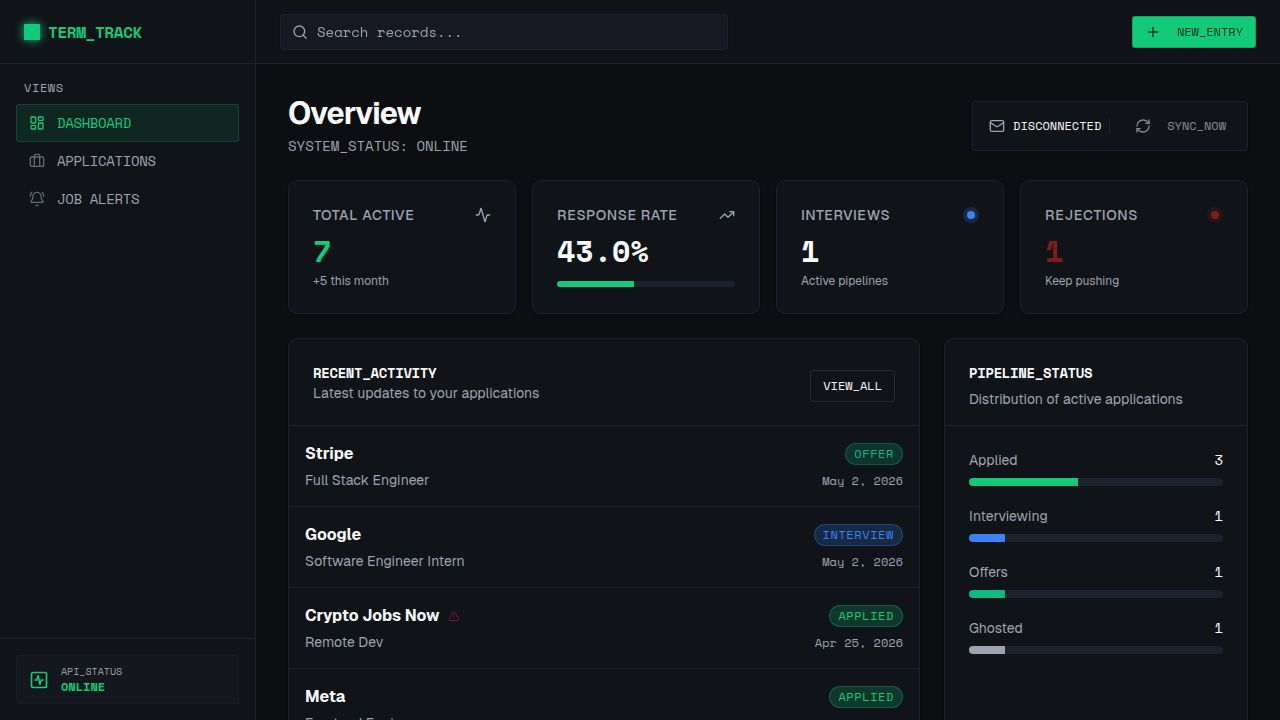
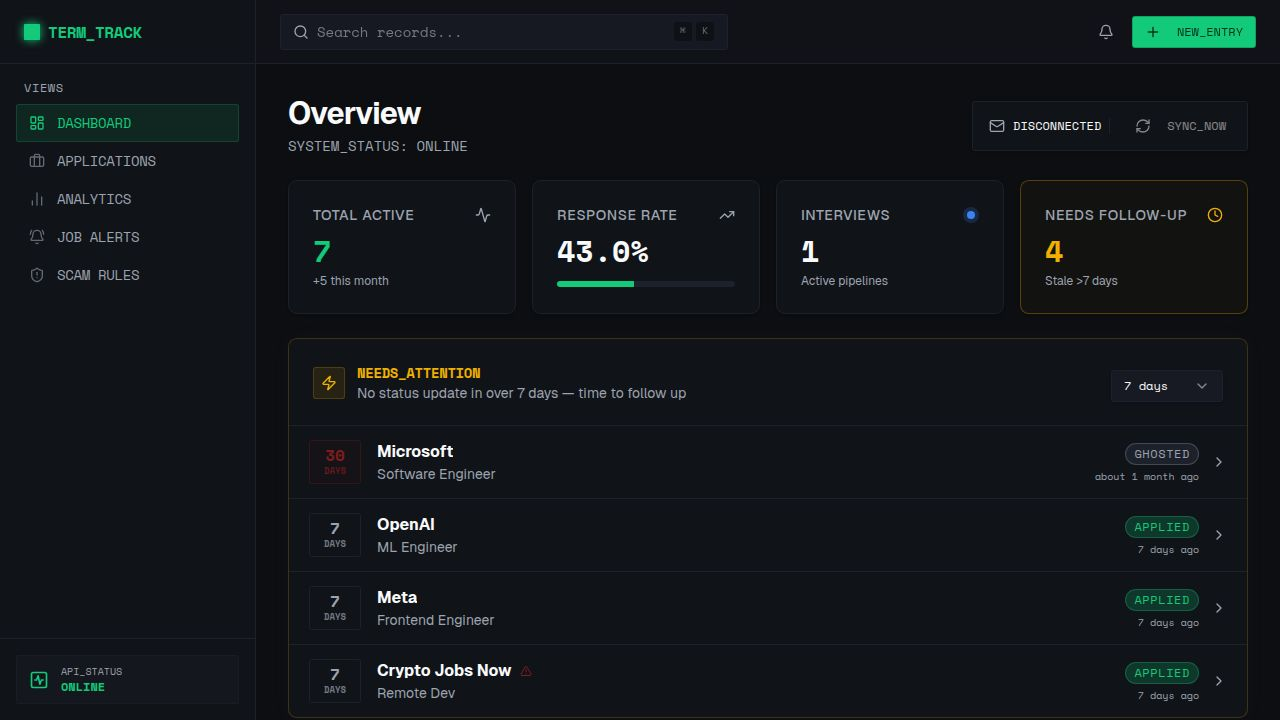
Add a command palette for quick navigation and actions
Integrates a new command palette component, allowing users to search applications, navigate pages, and perform quick actions via keyboard shortcuts (Cmd+K). Modifies layout.tsx to include the command palette trigger and keyboard listener, and introduces command-palette.tsx with functionality for navigation and application search.

Replit-Commit-Author: Agent
Replit-Commit-Session-Id: c374b641-64cb-4d25-810a-13cc89a486e9
Replit-Commit-Checkpoint-Type: full_checkpoint
Replit-Commit-Event-Id: 6cb4633b-e2fb-40b1-8bac-45892cc10c0f
Replit-Commit-Screenshot-Url: https://storage.googleapis.com/screenshot-production-us-central1/b0be6674-9946-4816-bce9-653fb47991f1/c374b641-64cb-4d25-810a-13cc89a486e9/ytUnUsx
Replit-Helium-Checkpoint-Created: true

diff --git a/artifacts/job-tracker/src/components/command-palette.tsx b/artifacts/job-tracker/src/components/command-palette.tsx
@@ -1,0 +1,213 @@
+import React, { useEffect, useState, useCallback } from "react";
+import { useLocation } from "wouter";
+import { useListApplications } from "@workspace/api-client-react";
+import {
+  CommandDialog,
+  CommandInput,
+  CommandList,
+  CommandEmpty,
+  CommandGroup,
+  CommandItem,
+  CommandSeparator,
+  CommandShortcut,
+} from "@/components/ui/command";
+import {
+  LayoutDashboard,
+  Briefcase,
+  BellRing,
+  ShieldAlert,
+  BarChart2,
+  Plus,
+  Download,
+  AlertTriangle,
+  Building2,
+  ArrowRight,
+} from "lucide-react";
+
+const STATUS_COLORS: Record<string, string> = {
+  applied: "bg-primary/20 text-primary",
+  interview: "bg-blue-500/20 text-blue-400",
+  offer: "bg-emerald-500/20 text-emerald-400",
+  rejected: "bg-destructive/20 text-destructive",
+  ghosted: "bg-muted-foreground/20 text-muted-foreground",
+};
+
+const NAV_ITEMS = [
+  { label: "Dashboard", href: "/", icon: LayoutDashboard, shortcut: "G D" },
+  { label: "Applications", href: "/applications", icon: Briefcase, shortcut: "G A" },
+  { label: "Analytics", href: "/analytics", icon: BarChart2, shortcut: "G N" },
+  { label: "Job Alerts", href: "/alerts", icon: BellRing, shortcut: "G J" },
+  { label: "Scam Rules", href: "/scam-detection", icon: ShieldAlert, shortcut: "G S" },
+];
+
+interface CommandPaletteProps {
+  open: boolean;
+  onOpenChange: (open: boolean) => void;
+}
+
+export function CommandPalette({ open, onOpenChange }: CommandPaletteProps) {
+  const [, setLocation] = useLocation();
+  const [query, setQuery] = useState("");
+
+  const { data: applications } = useListApplications(
+    { search: query || undefined },
+    { query: { enabled: open, staleTime: 30000 } }
+  );
+
+  const navigate = useCallback(
+    (href: string) => {
+      setLocation(href);
+      onOpenChange(false);
+      setQuery("");
+    },
+    [setLocation, onOpenChange]
+  );
+
+  const handleExport = useCallback(async () => {
+    onOpenChange(false);
+    setQuery("");
+    try {
+      const res = await fetch("/api/applications/export");
+      const blob = await res.blob();
+      const url = URL.createObjectURL(blob);
+      const a = document.createElement("a");
+      const disposition = res.headers.get("Content-Disposition") ?? "";
+      const match = disposition.match(/filename="(.+?)"/);
+      a.download = match?.[1] ?? "term_track_export.csv";
+      a.href = url;
+      document.body.appendChild(a);
+      a.click();
+      a.remove();
+      URL.revokeObjectURL(url);
+    } catch {}
+  }, [onOpenChange]);
+
+  // Reset query when closed
+  useEffect(() => {
+    if (!open) setQuery("");
+  }, [open]);
+
+  const displayedApps = applications?.slice(0, 8) ?? [];
+
+  return (
+    <CommandDialog open={open} onOpenChange={onOpenChange}>
+      <div className="border-b border-border/60 bg-card/40">
+        <CommandInput
+          placeholder="Search applications, navigate pages..."
+          value={query}
+          onValueChange={setQuery}
+          className="font-mono text-sm placeholder:text-muted-foreground/60 h-12"
+        />
+      </div>
+      <CommandList className="max-h-[420px] font-mono">
+        <CommandEmpty className="py-8 text-center">
+          <div className="flex flex-col items-center gap-2 text-muted-foreground">
+            <Building2 className="h-8 w-8 opacity-20" />
+            <p className="text-xs uppercase tracking-wider">No results for &ldquo;{query}&rdquo;</p>
+          </div>
+        </CommandEmpty>
+
+        {/* Navigation */}
+        <CommandGroup heading="Navigate">
+          {NAV_ITEMS.map((item) => (
+            <CommandItem
+              key={item.href}
+              value={`navigate ${item.label}`}
+              onSelect={() => navigate(item.href)}
+              className="cursor-pointer group"
+            >
+              <div className="flex items-center gap-3 flex-1 min-w-0">
+                <div className="h-7 w-7 rounded-md bg-secondary/60 flex items-center justify-center shrink-0 group-data-[selected=true]:bg-primary/10">
+                  <item.icon className="h-3.5 w-3.5 text-muted-foreground group-data-[selected=true]:text-primary" />
+                </div>
+                <span className="text-sm capitalize">{item.label}</span>
+              </div>
+              <CommandShortcut className="font-mono text-[10px] tracking-wider opacity-50">
+                {item.shortcut}
+              </CommandShortcut>
+            </CommandItem>
+          ))}
+        </CommandGroup>
+
+        <CommandSeparator />
+
+        {/* Quick Actions */}
+        <CommandGroup heading="Actions">
+          <CommandItem
+            value="new application create add"
+            onSelect={() => navigate("/applications/new")}
+            className="cursor-pointer group"
+          >
+            <div className="flex items-center gap-3 flex-1">
+              <div className="h-7 w-7 rounded-md bg-primary/10 border border-primary/20 flex items-center justify-center shrink-0">
+                <Plus className="h-3.5 w-3.5 text-primary" />
+              </div>
+              <span className="text-sm">New Application</span>
+            </div>
+            <CommandShortcut className="font-mono text-[10px] tracking-wider opacity-50">⌘ N</CommandShortcut>
+          </CommandItem>
+          <CommandItem
+            value="export csv download spreadsheet"
+            onSelect={handleExport}
+            className="cursor-pointer group"
+          >
+            <div className="flex items-center gap-3 flex-1">
+              <div className="h-7 w-7 rounded-md bg-secondary/60 flex items-center justify-center shrink-0">
+                <Download className="h-3.5 w-3.5 text-muted-foreground group-data-[selected=true]:text-primary" />
+              </div>
+              <span className="text-sm">Export CSV</span>
+            </div>
+            <CommandShortcut className="font-mono text-[10px] tracking-wider opacity-50">⌘ E</CommandShortcut>
+          </CommandItem>
+        </CommandGroup>
+
+        {/* Applications */}
+        {displayedApps.length > 0 && (
+          <>
+            <CommandSeparator />
+            <CommandGroup heading={`Applications${query ? ` matching "${query}"` : ""}`}>
+              {displayedApps.map((app) => (
+                <CommandItem
+                  key={app.id}
+                  value={`${app.company} ${app.role} ${app.status} ${app.location ?? ""}`}
+                  onSelect={() => navigate(`/applications/${app.id}`)}
+                  className="cursor-pointer group"
+                >
+                  <div className="flex items-center gap-3 flex-1 min-w-0">
+                    <div className="h-7 w-7 rounded-md bg-secondary/60 flex items-center justify-center shrink-0">
+                      {app.isScam ? (
+                        <AlertTriangle className="h-3.5 w-3.5 text-destructive" />
+                      ) : (
+                        <Building2 className="h-3.5 w-3.5 text-muted-foreground group-data-[selected=true]:text-primary" />
+                      )}
+                    </div>
+                    <div className="min-w-0 flex-1">
+                      <div className="flex items-center gap-2">
+                        <span className="text-sm font-medium truncate">{app.company}</span>
+                        <span
+                          className={`shrink-0 text-[10px] px-1.5 py-0.5 rounded font-mono uppercase font-bold ${STATUS_COLORS[app.status] ?? "bg-muted text-muted-foreground"}`}
+                        >
+                          {app.status}
+                        </span>
+                      </div>
+                      <span className="text-xs text-muted-foreground truncate block">{app.role}</span>
+                    </div>
+                  </div>
+                  <ArrowRight className="h-3 w-3 text-muted-foreground/40 shrink-0 group-data-[selected=true]:text-primary transition-colors" />
+                </CommandItem>
+              ))}
+            </CommandGroup>
+          </>
+        )}
+      </CommandList>
+
+      {/* Footer hint */}
+      <div className="border-t border-border/60 px-3 py-2 flex items-center gap-4 text-[10px] font-mono text-muted-foreground/50 bg-secondary/20">
+        <span className="flex items-center gap-1"><kbd className="px-1 py-0.5 rounded bg-secondary/80 text-[9px]">↑↓</kbd> navigate</span>
+        <span className="flex items-center gap-1"><kbd className="px-1 py-0.5 rounded bg-secondary/80 text-[9px]">↵</kbd> select</span>
+        <span className="flex items-center gap-1"><kbd className="px-1 py-0.5 rounded bg-secondary/80 text-[9px]">esc</kbd> close</span>
+        <span className="ml-auto flex items-center gap-1"><kbd className="px-1 py-0.5 rounded bg-secondary/80 text-[9px]">⌘K</kbd> toggle</span>
+      </div>
+    </CommandDialog>
+  );
+}

diff --git a/artifacts/job-tracker/src/components/layout.tsx b/artifacts/job-tracker/src/components/layout.tsx
@@ -2,17 +2,29 @@ import React, { useState, useRef, useEffect } from "react";
 import { Link, useLocation } from "wouter";
 import { LayoutDashboard, Briefcase, BellRing, ShieldAlert, Search, Plus, ActivitySquare, Bell, X, Check, CheckCheck, BarChart2 } from "lucide-react";
 import { Button } from "@/components/ui/button";
-import { Input } from "@/components/ui/input";
 import { useHealthCheck, useListNotifications, useMarkNotificationRead, useClearNotifications, getListNotificationsQueryKey } from "@workspace/api-client-react";
 import { useQueryClient } from "@tanstack/react-query";
 import { formatDistanceToNow } from "date-fns";
+import { CommandPalette } from "@/components/command-palette";
 
 export function Layout({ children }: { children: React.ReactNode }) {
   const [location] = useLocation();
   const { data: health } = useHealthCheck();
   const [notifOpen, setNotifOpen] = useState(false);
+  const [cmdOpen, setCmdOpen] = useState(false);
   const panelRef = useRef<HTMLDivElement>(null);
   const queryClient = useQueryClient();
+
+  useEffect(() => {
+    const handler = (e: KeyboardEvent) => {
+      if ((e.metaKey || e.ctrlKey) && e.key === "k") {
+        e.preventDefault();
+        setCmdOpen((o) => !o);
+      }
+    };
+    document.addEventListener("keydown", handler);
+    return () => document.removeEventListener("keydown", handler);
+  }, []);
 
   const { data: notifications } = useListNotifications({ unreadOnly: false }, {
     query: { refetchInterval: 30000 }
@@ -110,13 +122,17 @@ export function Layout({ children }: { children: React.ReactNode }) {
         {/* Top Header */}
         <header className="h-16 border-b border-border bg-card/80 backdrop-blur-sm flex items-center justify-between px-6 shrink-0 relative z-10">
           <div className="flex items-center gap-4 flex-1">
-            <div className="relative w-full max-w-md hidden md:flex">
-              <Search className="absolute left-3 top-1/2 -translate-y-1/2 h-4 w-4 text-muted-foreground" />
-              <Input
-                placeholder="Search records..."
-                className="pl-9 bg-secondary/50 border-border font-mono text-sm h-9 w-full focus-visible:ring-1 transition-colors hover:bg-secondary focus:bg-background"
-              />
-            </div>
+            <button
+              onClick={() => setCmdOpen(true)}
+              className="hidden md:flex items-center gap-2 w-full max-w-md h-9 px-3 rounded-md bg-secondary/50 border border-border text-muted-foreground text-sm font-mono hover:bg-secondary hover:border-border/80 hover:text-foreground transition-all group"
+            >
+              <Search className="h-4 w-4 shrink-0" />
+              <span className="flex-1 text-left text-muted-foreground/70">Search records...</span>
+              <span className="flex items-center gap-0.5 shrink-0">
+                <kbd className="px-1.5 py-0.5 text-[10px] rounded bg-background/60 border border-border/60 text-muted-foreground/60 group-hover:border-border group-hover:text-muted-foreground transition-colors">⌘</kbd>
+                <kbd className="px-1.5 py-0.5 text-[10px] rounded bg-background/60 border border-border/60 text-muted-foreground/60 group-hover:border-border group-hover:text-muted-foreground transition-colors">K</kbd>
+              </span>
+            </button>
           </div>
 
           <div className="flex items-center gap-2" ref={panelRef}>
@@ -237,6 +253,8 @@ export function Layout({ children }: { children: React.ReactNode }) {
           </div>
         </main>
       </div>
+
+      <CommandPalette open={cmdOpen} onOpenChange={setCmdOpen} />
     </div>
   );
 }
